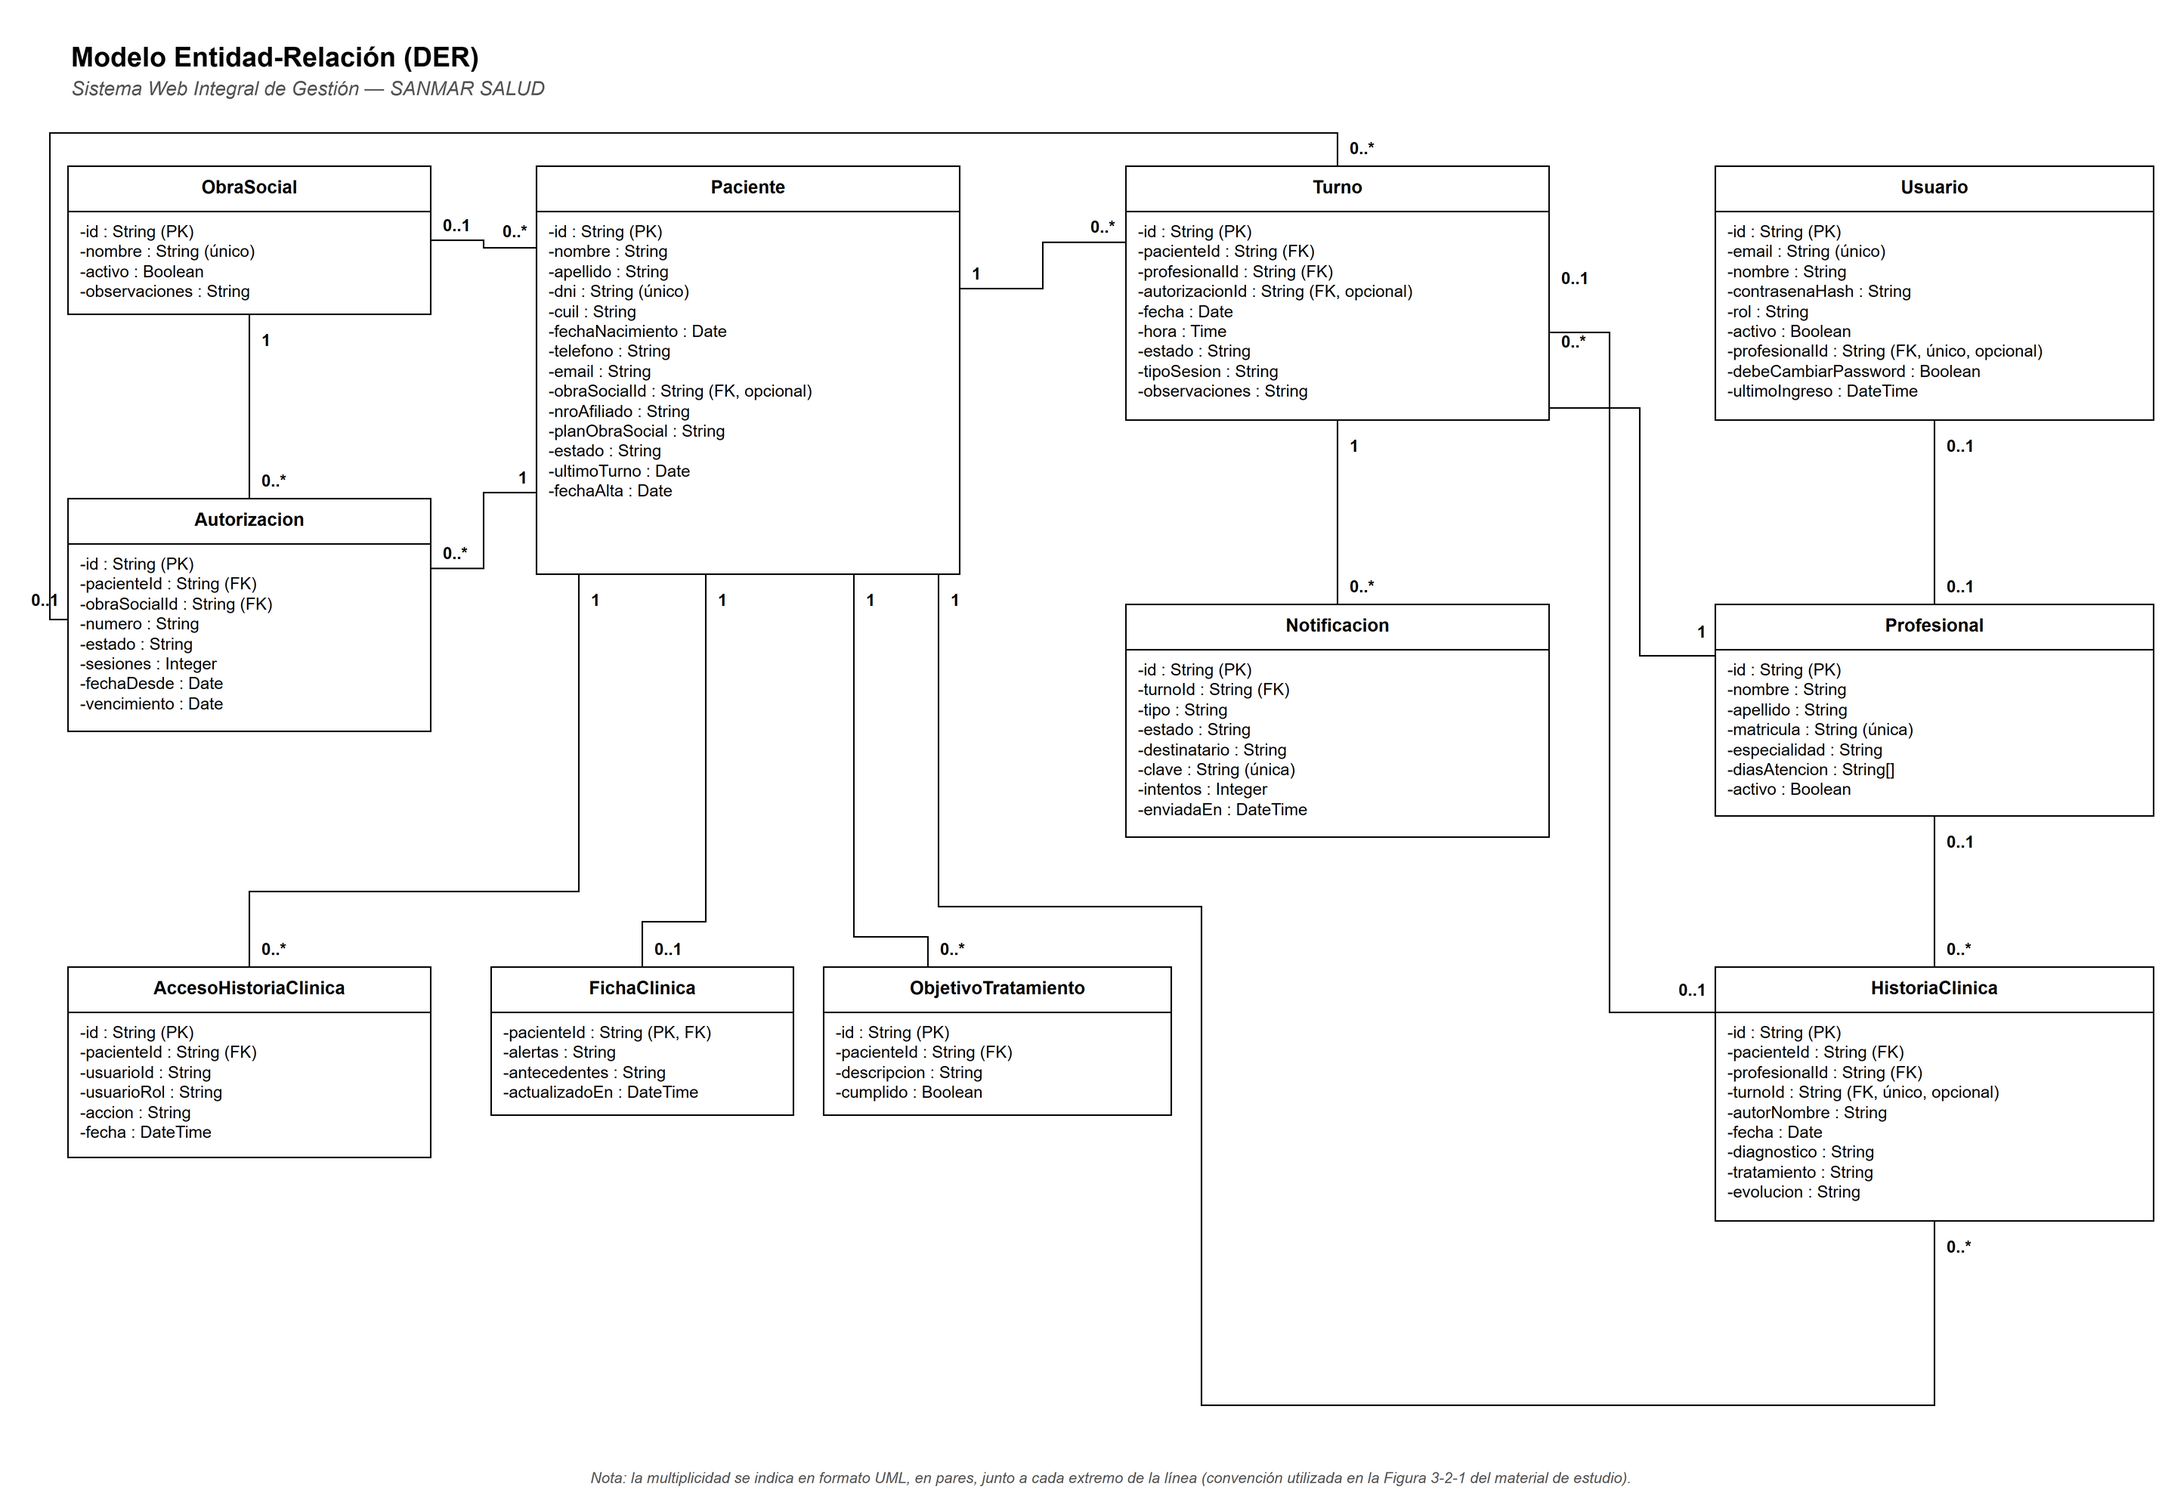
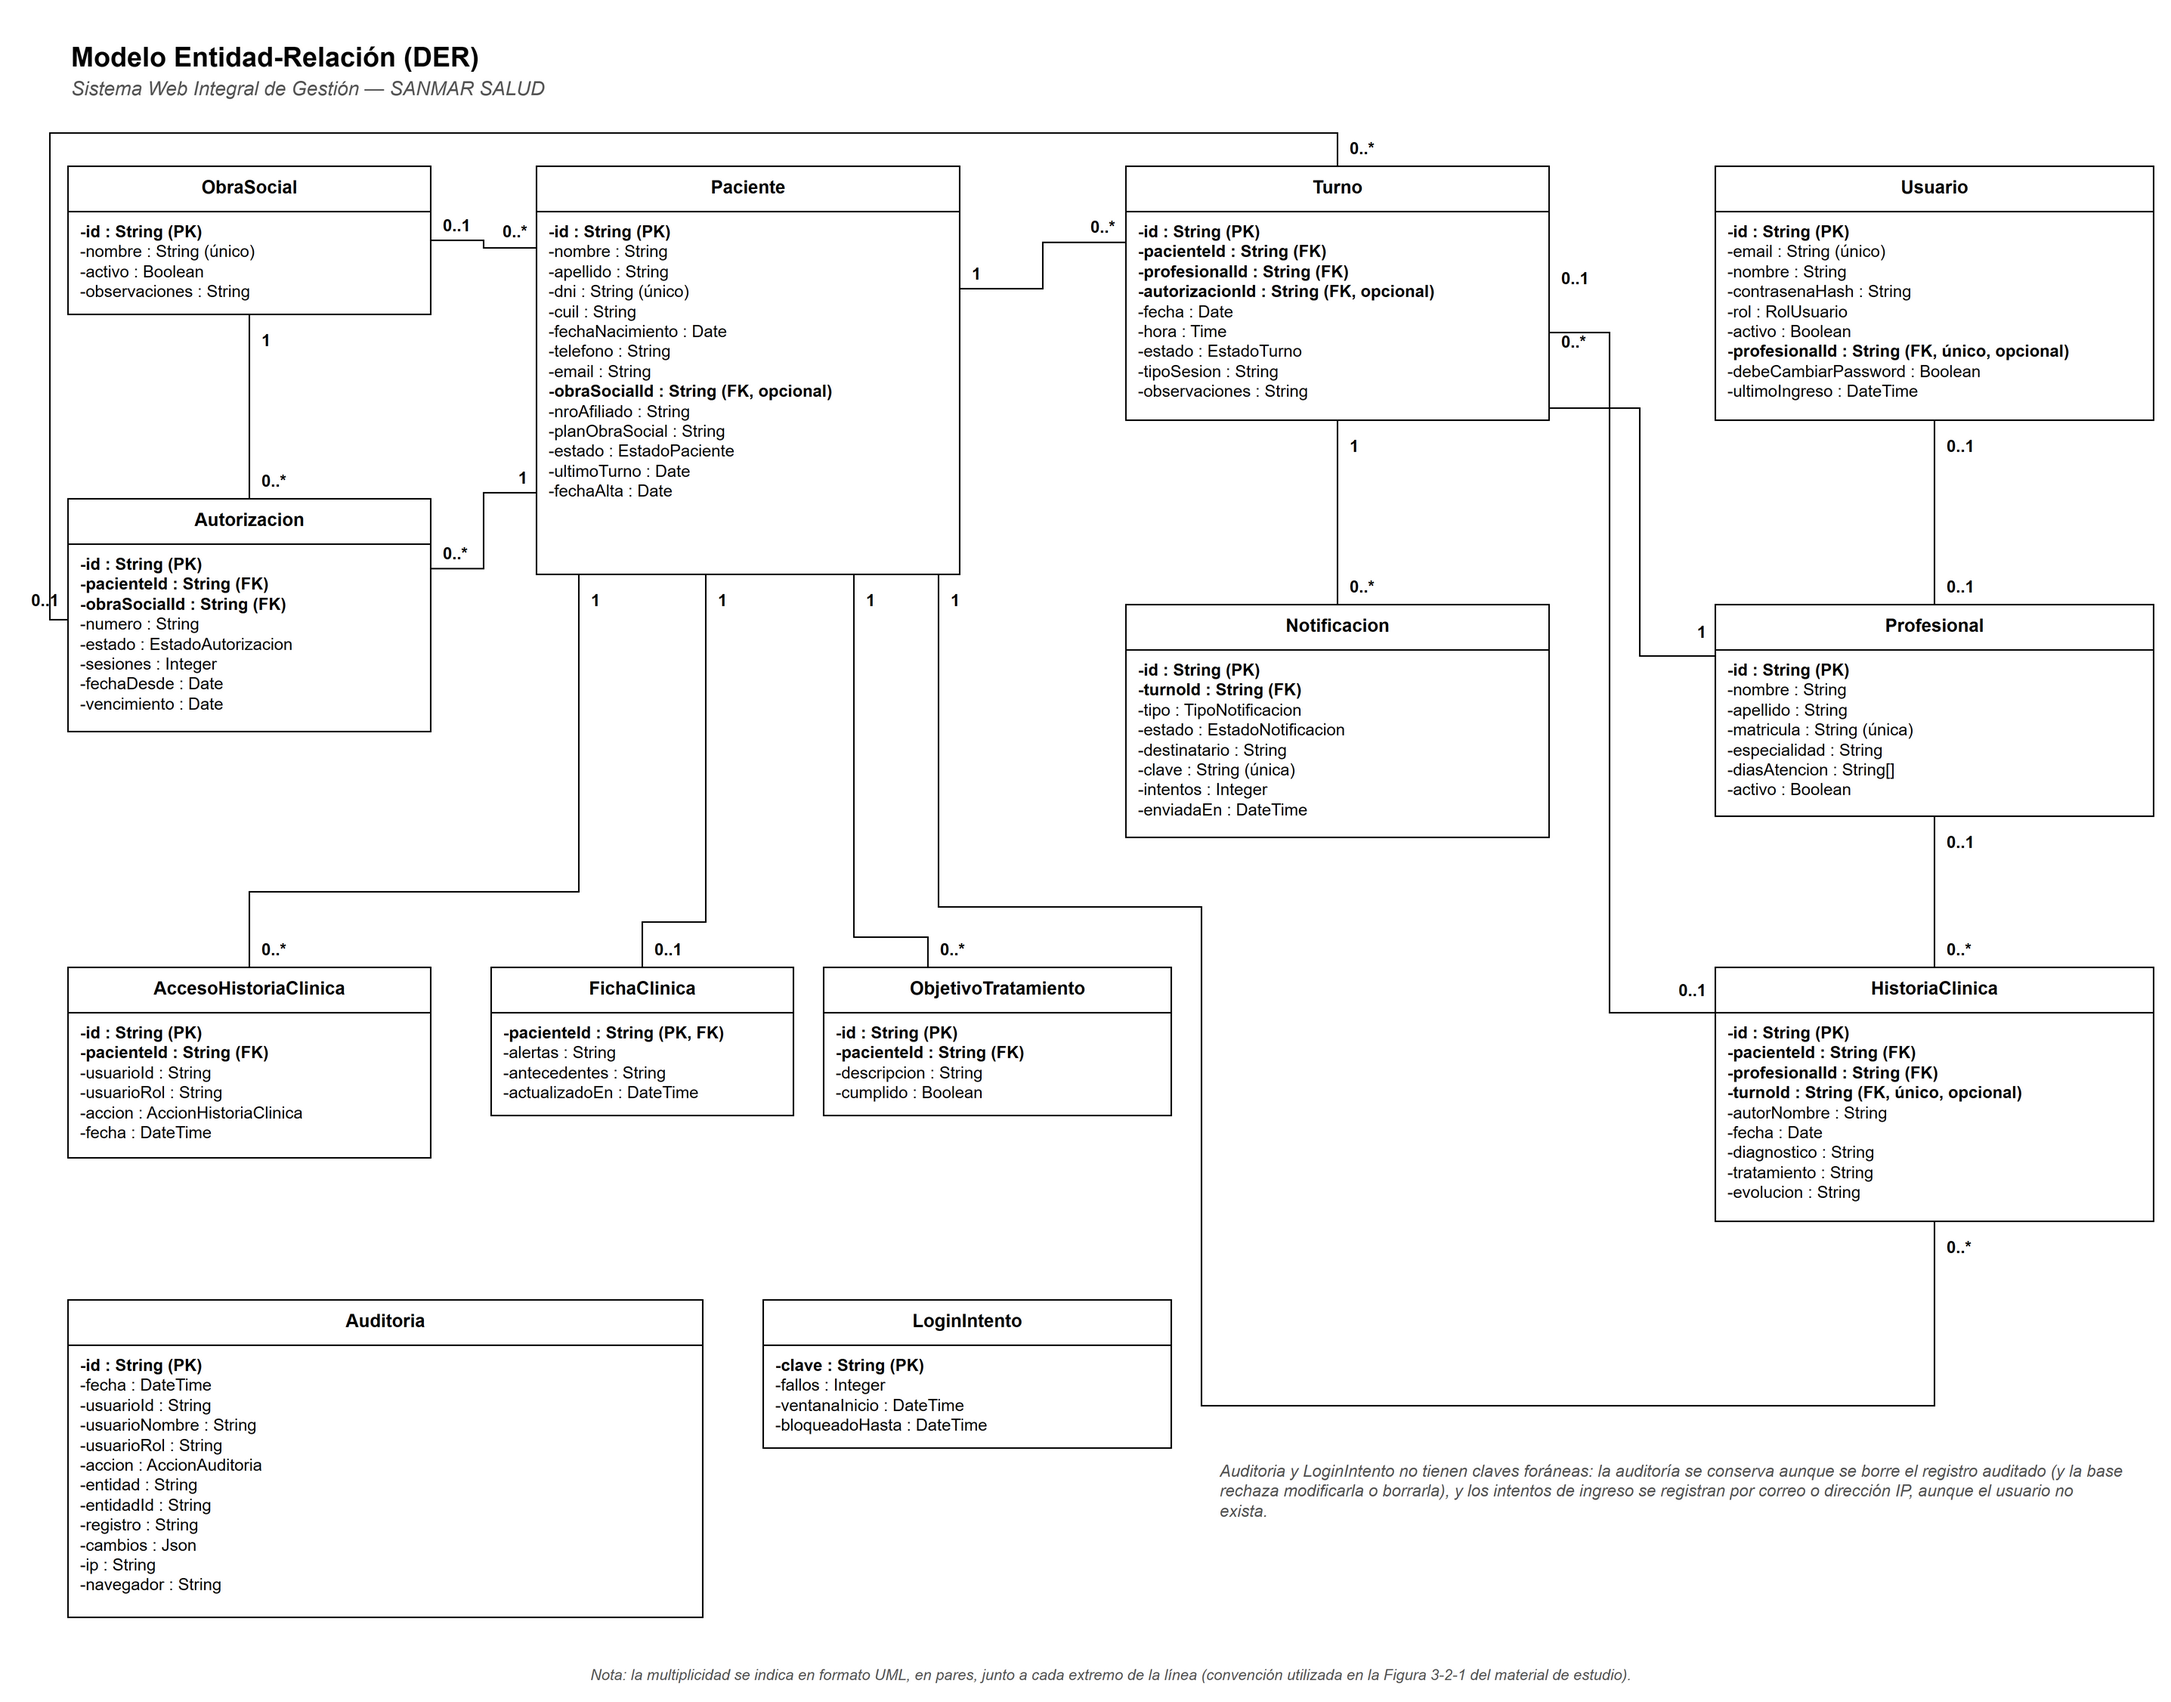
DER: claves en negrita, tipos enumerados y tablas de seguridad (#47)
Suma Auditoria y LoginIntento (sin claves foráneas, con la explicación en
el diagrama), marca en negrita las claves primarias y foráneas y usa los
tipos enumerados (EstadoTurno, RolUsuario, etc.) en lugar de String.

diff --git a/scripts/diagramas/drawio.py b/scripts/diagramas/drawio.py
@@ -317,46 +317,59 @@ def arquitectura():
 
 # ---------------------------------------------------------------- Modelo entidad-relación
 def der():
-    d = Diagram("der", 1420, 1000)
+    d = Diagram("der", 1420, 1130)
     d.title("Modelo Entidad-Relación (DER)", "Sistema Web Integral de Gestión — SANMAR SALUD", x=20, y=20)
     f = dict(line_h=14, font=11)
 
     obra, _ = d.uml_class(20, 110, 240, "<b>ObraSocial</b>", [
-        "-id : String (PK)", "-nombre : String (único)", "-activo : Boolean", "-observaciones : String"], **f)
+        "<b>-id : String (PK)</b>", "-nombre : String (único)", "-activo : Boolean", "-observaciones : String"], **f)
     autor, _ = d.uml_class(20, 330, 240, "<b>Autorizacion</b>", [
-        "-id : String (PK)", "-pacienteId : String (FK)", "-obraSocialId : String (FK)", "-numero : String",
-        "-estado : String", "-sesiones : Integer", "-fechaDesde : Date", "-vencimiento : Date"], **f)
+        "<b>-id : String (PK)</b>", "<b>-pacienteId : String (FK)</b>", "<b>-obraSocialId : String (FK)</b>", "-numero : String",
+        "-estado : EstadoAutorizacion", "-sesiones : Integer", "-fechaDesde : Date", "-vencimiento : Date"], **f)
     paciente, _ = d.uml_class(330, 110, 280, "<b>Paciente</b>", [
-        "-id : String (PK)", "-nombre : String", "-apellido : String", "-dni : String (único)", "-cuil : String",
+        "<b>-id : String (PK)</b>", "-nombre : String", "-apellido : String", "-dni : String (único)", "-cuil : String",
         "-fechaNacimiento : Date", "-telefono : String", "-email : String",
-        "-obraSocialId : String (FK, opcional)", "-nroAfiliado : String", "-planObraSocial : String",
-        "-estado : String", "-ultimoTurno : Date", "-fechaAlta : Date"], attr_min=240, **f)
+        "<b>-obraSocialId : String (FK, opcional)</b>", "-nroAfiliado : String", "-planObraSocial : String",
+        "-estado : EstadoPaciente", "-ultimoTurno : Date", "-fechaAlta : Date"], attr_min=240, **f)
     turno, _ = d.uml_class(720, 110, 280, "<b>Turno</b>", [
-        "-id : String (PK)", "-pacienteId : String (FK)", "-profesionalId : String (FK)",
-        "-autorizacionId : String (FK, opcional)", "-fecha : Date", "-hora : Time", "-estado : String",
+        "<b>-id : String (PK)</b>", "<b>-pacienteId : String (FK)</b>", "<b>-profesionalId : String (FK)</b>",
+        "<b>-autorizacionId : String (FK, opcional)</b>", "-fecha : Date", "-hora : Time", "-estado : EstadoTurno",
         "-tipoSesion : String", "-observaciones : String"], **f)
     usuario, _ = d.uml_class(1110, 110, 290, "<b>Usuario</b>", [
-        "-id : String (PK)", "-email : String (único)", "-nombre : String", "-contrasenaHash : String",
-        "-rol : String", "-activo : Boolean", "-profesionalId : String (FK, único, opcional)",
+        "<b>-id : String (PK)</b>", "-email : String (único)", "-nombre : String", "-contrasenaHash : String",
+        "-rol : RolUsuario", "-activo : Boolean", "<b>-profesionalId : String (FK, único, opcional)</b>",
         "-debeCambiarPassword : Boolean", "-ultimoIngreso : DateTime"], **f)
     profesional, _ = d.uml_class(1110, 400, 290, "<b>Profesional</b>", [
-        "-id : String (PK)", "-nombre : String", "-apellido : String", "-matricula : String (única)",
+        "<b>-id : String (PK)</b>", "-nombre : String", "-apellido : String", "-matricula : String (única)",
         "-especialidad : String", "-diasAtencion : String[]", "-activo : Boolean"], **f)
     notif, _ = d.uml_class(720, 400, 280, "<b>Notificacion</b>", [
-        "-id : String (PK)", "-turnoId : String (FK)", "-tipo : String", "-estado : String",
+        "<b>-id : String (PK)</b>", "<b>-turnoId : String (FK)</b>", "-tipo : TipoNotificacion", "-estado : EstadoNotificacion",
         "-destinatario : String", "-clave : String (única)", "-intentos : Integer", "-enviadaEn : DateTime"], **f)
     hc, _ = d.uml_class(1110, 640, 290, "<b>HistoriaClinica</b>", [
-        "-id : String (PK)", "-pacienteId : String (FK)", "-profesionalId : String (FK)",
-        "-turnoId : String (FK, único, opcional)", "-autorNombre : String", "-fecha : Date",
+        "<b>-id : String (PK)</b>", "<b>-pacienteId : String (FK)</b>", "<b>-profesionalId : String (FK)</b>",
+        "<b>-turnoId : String (FK, único, opcional)</b>", "-autorNombre : String", "-fecha : Date",
         "-diagnostico : String", "-tratamiento : String", "-evolucion : String"], **f)
     acceso, _ = d.uml_class(20, 640, 240, "<b>AccesoHistoriaClinica</b>", [
-        "-id : String (PK)", "-pacienteId : String (FK)", "-usuarioId : String", "-usuarioRol : String",
-        "-accion : String", "-fecha : DateTime"], **f)
+        "<b>-id : String (PK)</b>", "<b>-pacienteId : String (FK)</b>", "-usuarioId : String", "-usuarioRol : String",
+        "-accion : AccionHistoriaClinica", "-fecha : DateTime"], **f)
     ficha, _ = d.uml_class(300, 640, 200, "<b>FichaClinica</b>", [
-        "-pacienteId : String (PK, FK)", "-alertas : String", "-antecedentes : String",
+        "<b>-pacienteId : String (PK, FK)</b>", "-alertas : String", "-antecedentes : String",
         "-actualizadoEn : DateTime"], **f)
     objetivo, _ = d.uml_class(520, 640, 230, "<b>ObjetivoTratamiento</b>", [
-        "-id : String (PK)", "-pacienteId : String (FK)", "-descripcion : String", "-cumplido : Boolean"], **f)
+        "<b>-id : String (PK)</b>", "<b>-pacienteId : String (FK)</b>", "-descripcion : String", "-cumplido : Boolean"], **f)
+
+    audit, _ = d.uml_class(20, 860, 420, "<b>Auditoria</b>", [
+        "<b>-id : String (PK)</b>", "-fecha : DateTime", "-usuarioId : String", "-usuarioNombre : String",
+        "-usuarioRol : String", "-accion : AccionAuditoria", "-entidad : String", "-entidadId : String",
+        "-registro : String", "-cambios : Json", "-ip : String", "-navegador : String"], **f)
+    login, _ = d.uml_class(480, 860, 270, "<b>LoginIntento</b>", [
+        "<b>-clave : String (PK)</b>", "-fallos : Integer", "-ventanaInicio : DateTime",
+        "-bloqueadoHasta : DateTime"], **f)
+    d.text(780, 960, 600, 80,
+           "<i>Auditoria y LoginIntento no tienen claves foráneas: la auditoría se conserva aunque se borre "
+           "el registro auditado (y la base rechaza modificarla o borrarla), y los intentos de ingreso se "
+           "registran por correo o dirección IP, aunque el usuario no exista.</i>",
+           "fontSize=11;fontColor=#555555;")
 
     m = dict(font=11)
     d.edge(obra, paciente, src_mult="0..1", tgt_mult="0..*", exit_=(1, 0.5), entry=(0, 0.2), **m)
@@ -380,7 +393,7 @@ def der():
            points=[(442, 610), (400, 610)], **m)
     d.edge(paciente, objetivo, src_mult="1", tgt_mult="0..*", exit_=(0.75, 1), entry=(0.3, 0),
            points=[(540, 620), (589, 620)], **m)
-    d.text(20, 965, 1380, 20,
+    d.text(20, 1095, 1380, 20,
            "<i>Nota: la multiplicidad se indica en formato UML, en pares, junto a cada extremo de la línea "
            "(convención utilizada en la Figura 3-2-1 del material de estudio).</i>",
            "fontSize=10;fontColor=#555555;align=center;")
